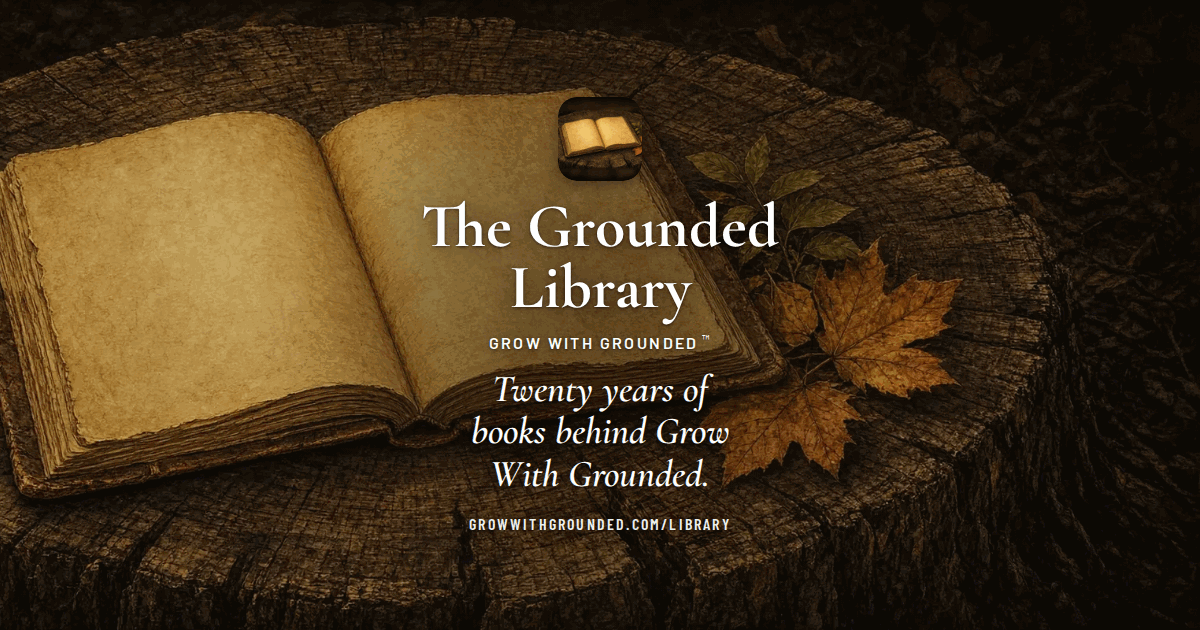
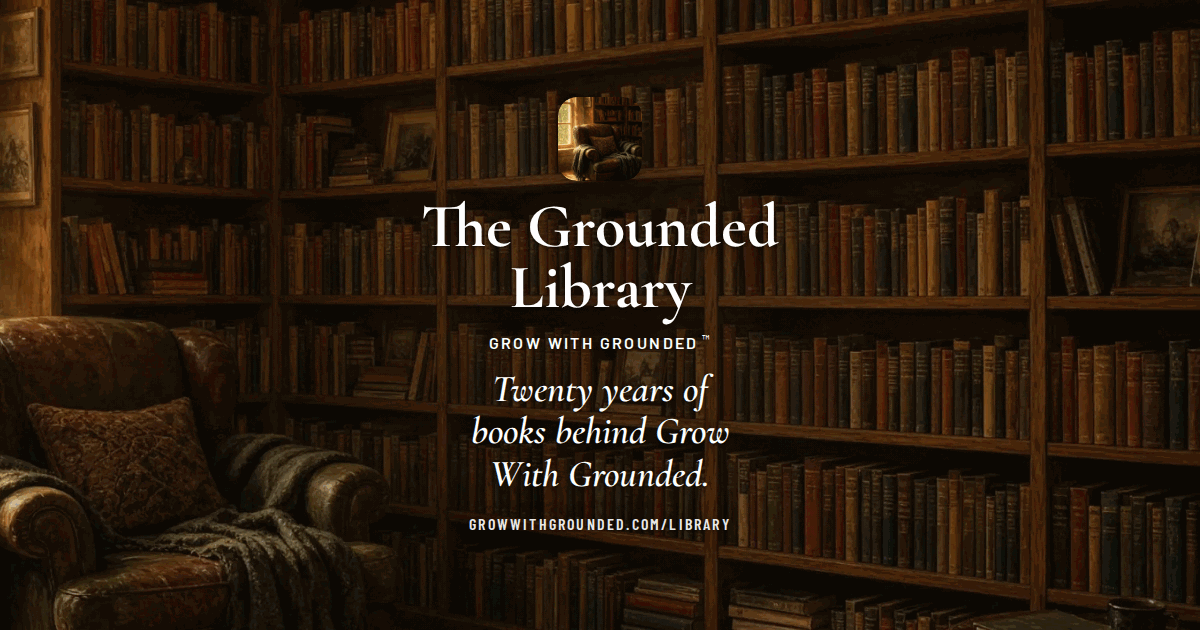
BLD 820: The Grounded Library gets its own painting (hero, marks, share picture)
Claude-Session: https://claude.ai/code/session_01WcZgsAiFdTphwpdYq1mWZF

diff --git a/library/index.html b/library/index.html
@@ -14,14 +14,14 @@
 <meta property="og:url" content="https://growwithgrounded.com/library/">
 <meta property="og:title" content="Grow With Grounded | Presence at life&#39;s thresholds">
 <meta property="og:description" content="Services that honor life&#39;s thresholds, growth tools that build spiritual and emotional resilience at every age, and real stories from the edge of life. From chaplain Chris Joy.">
-<meta property="og:image" content="https://growwithgrounded.com/share/library.png?v=b792c">
+<meta property="og:image" content="https://growwithgrounded.com/share/library.png?v=b820">
 <meta property="og:image:width" content="1200">
 <meta property="og:image:height" content="630">
 <meta name="twitter:card" content="summary_large_image">
 <meta name="twitter:title" content="Grow With Grounded | Presence at life&#39;s thresholds">
 <meta name="twitter:description" content="Services that honor life&#39;s thresholds, growth tools that build spiritual and emotional resilience at every age, and real stories from the edge of life. From chaplain Chris Joy.">
-<meta name="twitter:image" content="https://growwithgrounded.com/share/library.png?v=b792c">
-<link rel="icon" type="image/svg+xml" href="/shared/marks/library-tab.svg">
+<meta name="twitter:image" content="https://growwithgrounded.com/share/library.png?v=b820">
+<link rel="icon" type="image/svg+xml" href="/shared/marks/library-tab.svg?v=b820">
 <link rel="apple-touch-icon" href="/library/apple-touch-icon.png?v=b792c">
 <link rel="stylesheet" href="/fonts/fonts.css?v=b788">
 <link rel="stylesheet" href="/style.css?v=b817">
@@ -149,9 +149,9 @@
   <nav class="site-menu" id="site-menu" aria-label="Main"><a href="/index.html">Home</a><a href="/services.html">Services</a><a href="/tools.html" class="current" aria-current="page">Tools</a><a href="/stories.html">Stories</a><a href="/about.html">About</a><a href="/contact.html">Contact</a></nav>
 </div></header>
 <main id="main" class="lib lib-has-hero">
-<section class="pg-hero lib-pghero" style="--img:url(/shared/heroes/library-wide.webp);--img-n:url(/shared/heroes/library-phone.webp)" aria-labelledby="lib-title">
+<section class="pg-hero lib-pghero" style="--img:url(/shared/heroes/library-wide.webp?v=b820);--img-n:url(/shared/heroes/library-phone.webp?v=b820)" aria-labelledby="lib-title">
   <div class="wrap pg-hero-in">
-    <img class="lib-mark" src="/shared/marks/library.svg" alt="" width="88" height="88">
+    <img class="lib-mark" src="/shared/marks/library.svg?v=b820" alt="" width="88" height="88">
     <div class="eyebrow">From Chris's Shelves</div>
     <h1 id="lib-title">The Grounded Library</h1>
     <p class="pg-sub">Twenty years of books that shaped Grow With Grounded.</p>
